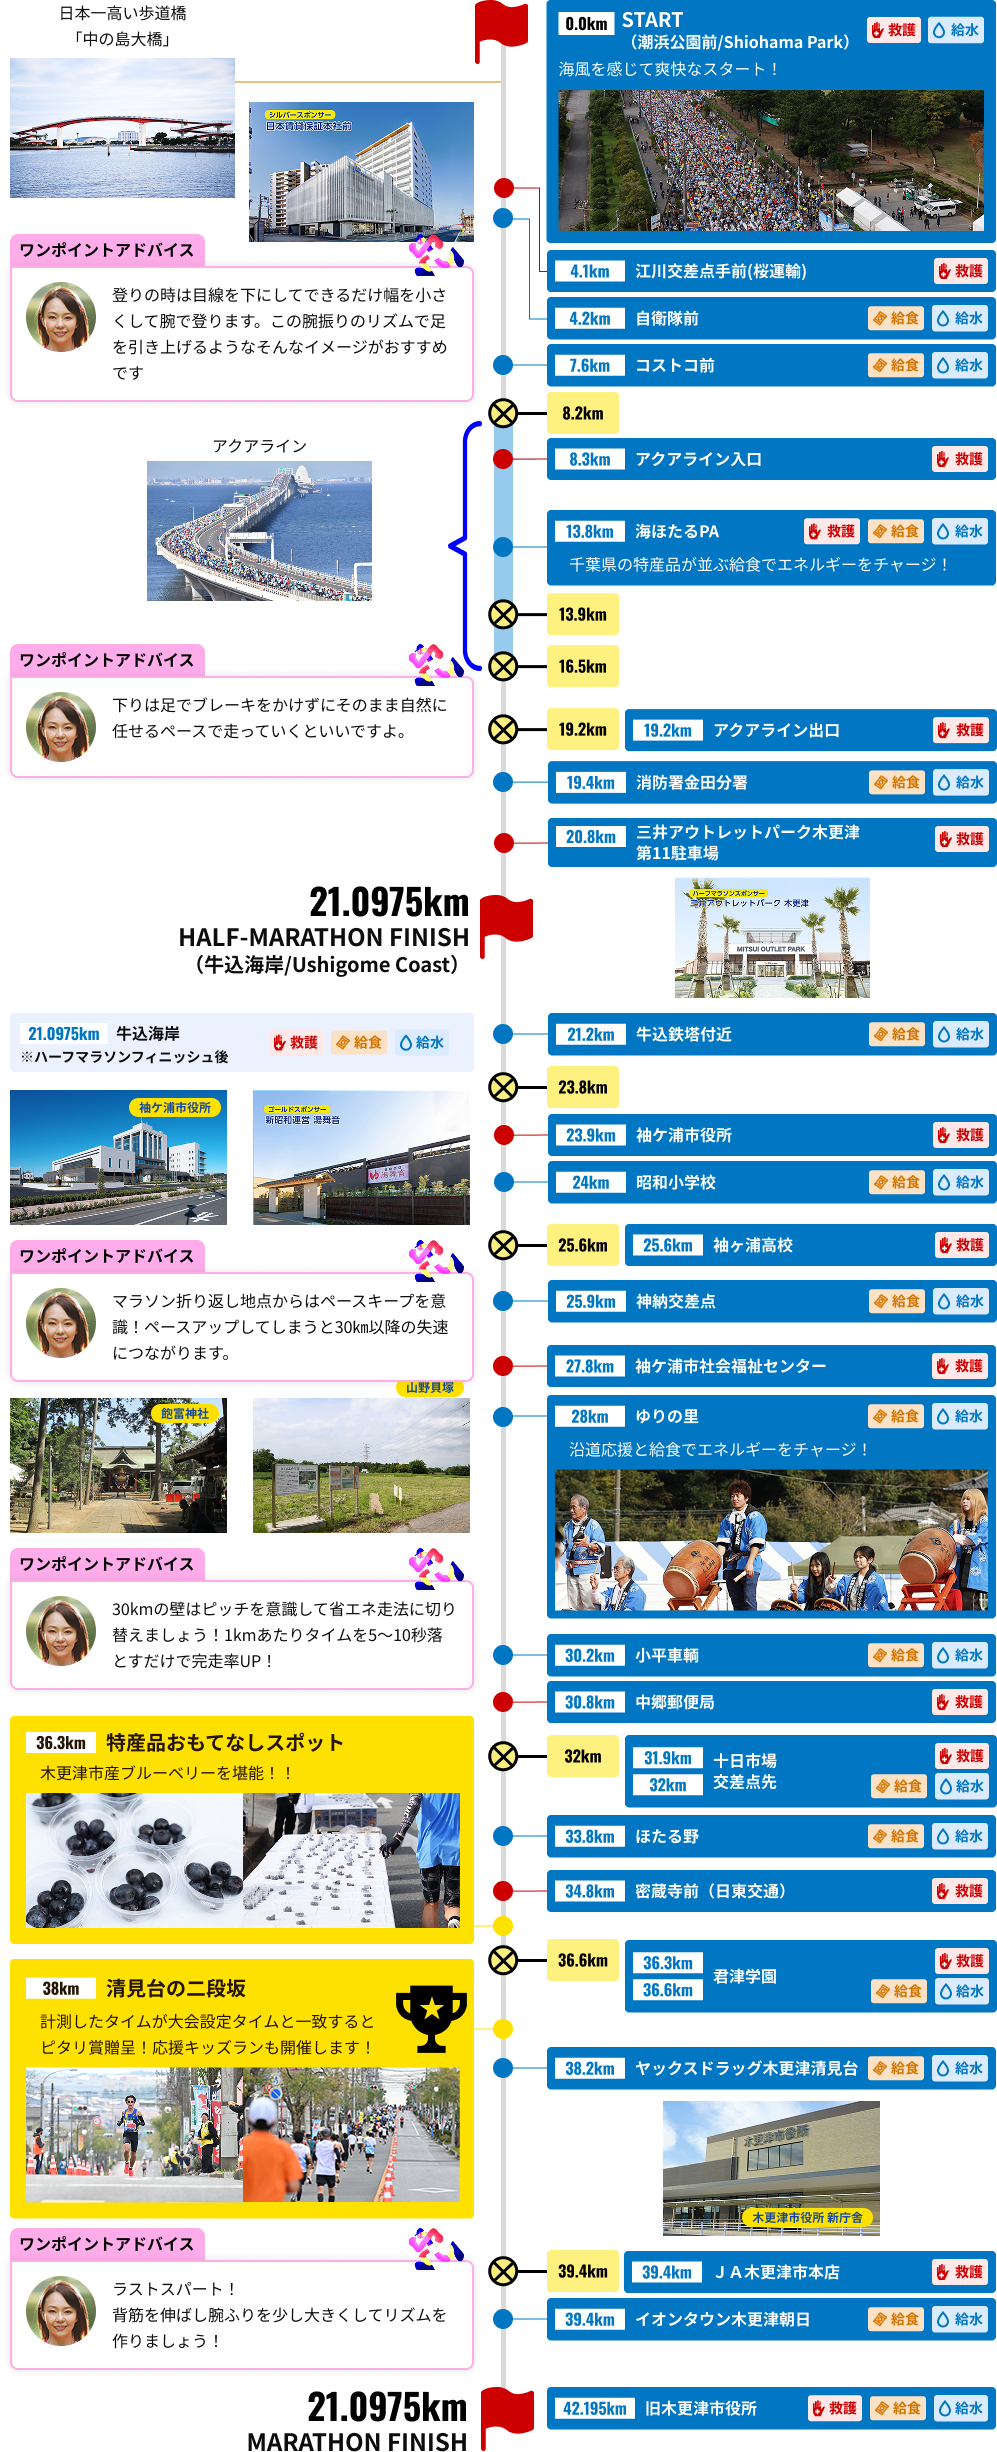
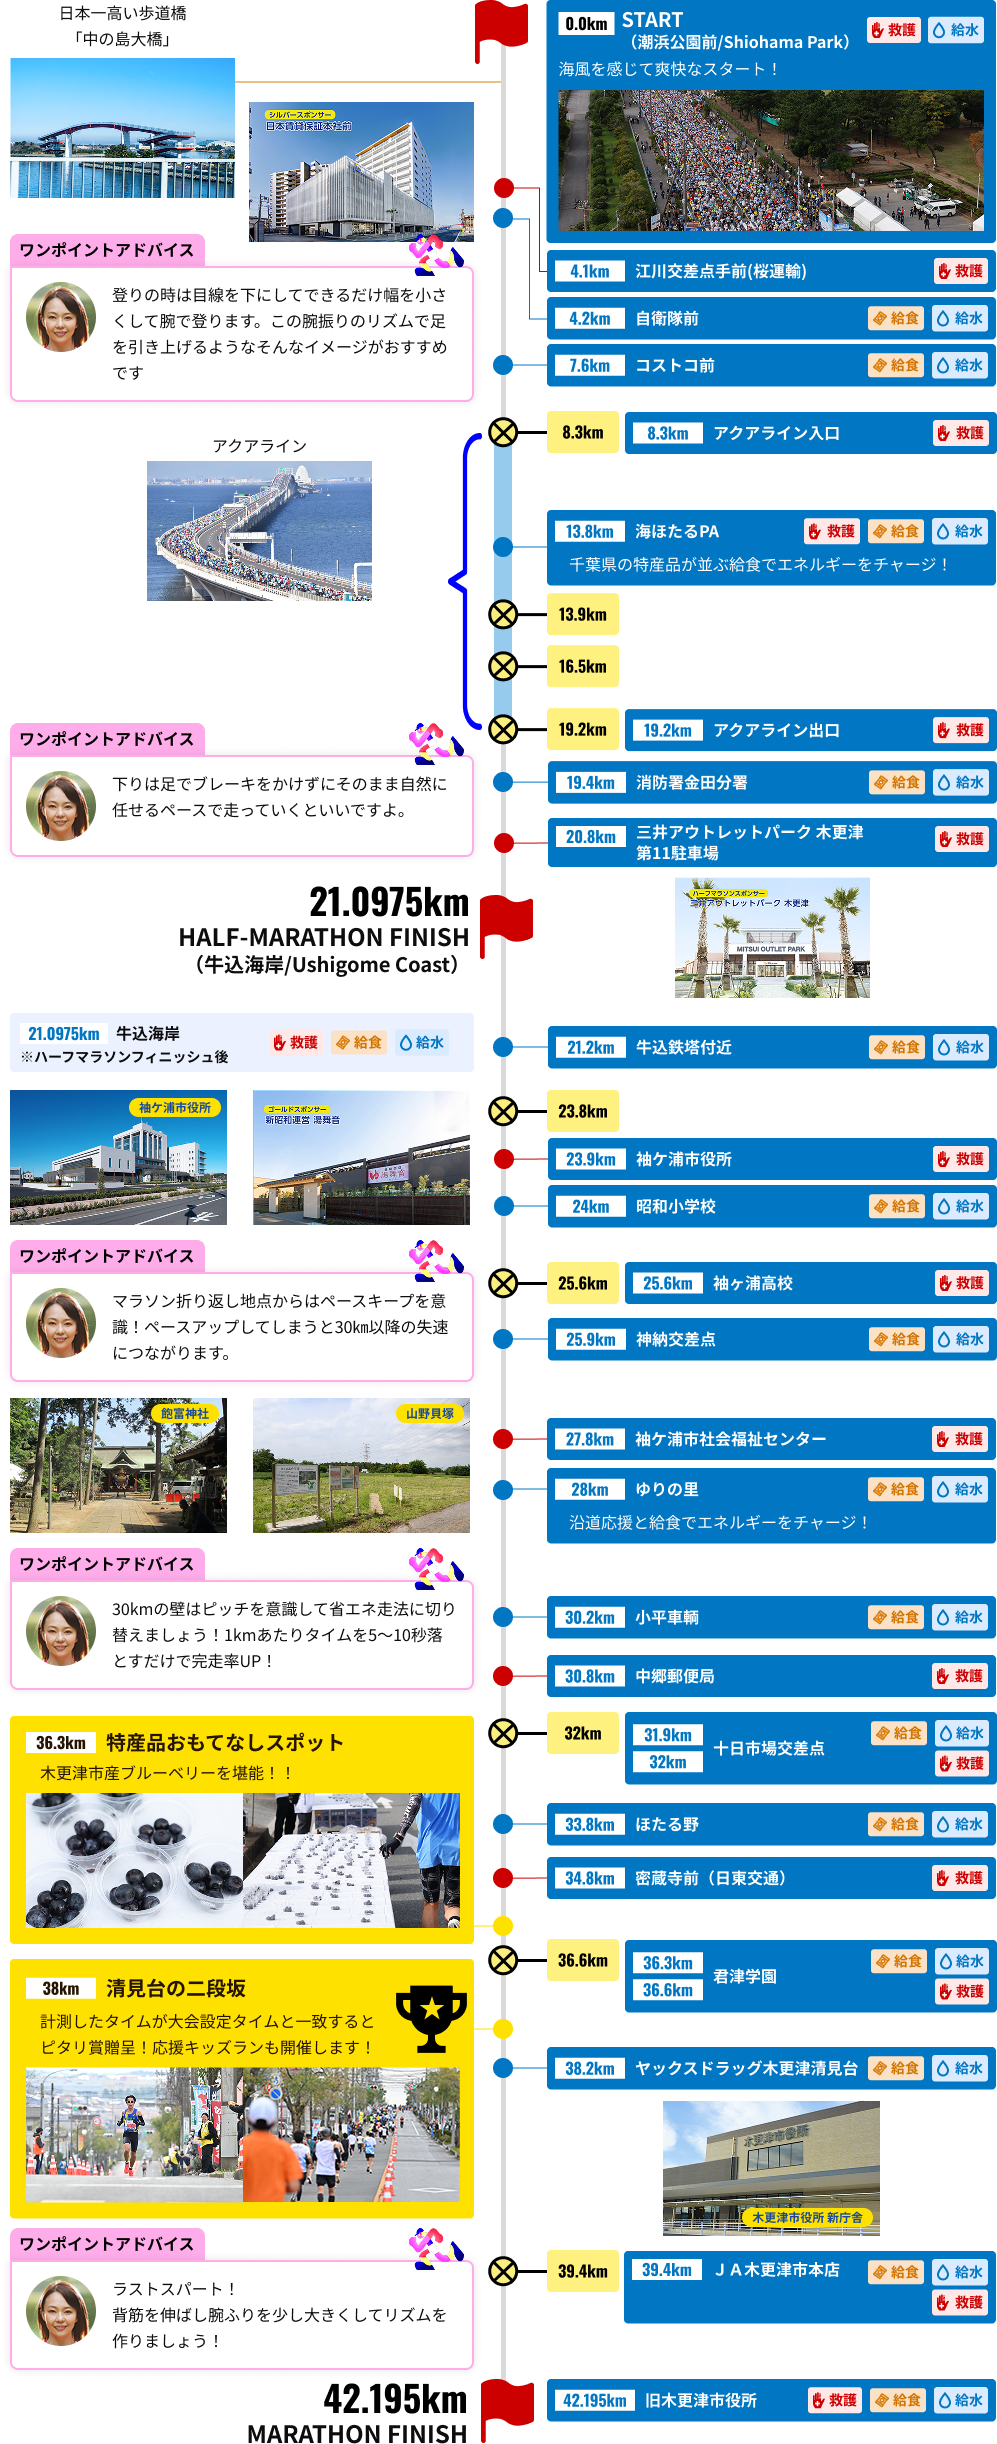
コース情報を最新化

diff --git a/tournament/course.html b/tournament/course.html
@@ -53,7 +53,7 @@
 			</section>
 			<section class="c-container">
 				<h3 class="c-heading__info">コース情報／ワンポイントアドバイス</h3>
-				<!-- <div class="p-course__block--advisor">
+				<div class="p-course__block--advisor">
 					<p class="p-course__image--advisor"><img src="/images/tournament/course/img_masako.webp" alt=""></p>
 					<div class="p-course__inner-advisor">
 						<h4 class="p-course__heading--advisor">オフィシャルアドバイザー　千葉 真子さん</h4>
@@ -69,7 +69,7 @@
 						<div class="p-course__wrap--icon-guide">
 							<div class="p-course__inner--icon-guide">
 								<p class="p-course__icon--guide"><img src="/images/tournament/course/icon_firstaid.svg" alt="救護所"></p>
-								<p class="p-course__text--icon-guide">救護所　計16箇所</p>
+								<p class="p-course__text--icon-guide">救護所　計15箇所</p>
 							</div>
 							<div class="p-course__inner--icon-guide">
 								<p class="p-course__icon--guide"><img src="/images/tournament/course/icon_food.svg" alt="給食所"></p>
@@ -79,23 +79,29 @@
 								<p class="p-course__icon--guide"><img src="/images/tournament/course/icon_water.svg" alt="給水所"></p>
 								<p class="p-course__text--icon-guide">給水所　計16箇所</p>
 							</div>
+							<ul class="c-list__guideline--kome">
+								<li>救護所、給食所、給水所は各種目毎の数</li>
+							</ul>
 						</div>
 						<div class="p-course__wrap--icon-guide2">
 							<div class="p-course__inner--icon-guide">
 								<p class="p-course__icon--guide2"><img src="/images/tournament/course/icon_checkpoint.svg" alt="関門"></p>
-								<p class="p-course__text--icon-guide">関門　　計15箇所</p>
+								<p class="p-course__text--icon-guide">関門　　計9箇所</p>
 							</div>
+							<ul class="c-list__guideline--kome">
+								<li>コース上</li>
+							</ul>
 						</div>
 					</div>
 				</div>
-				<div class="p-course__image--course-guide bottom"><img src="/images/tournament/course/img_course_guide.webp" alt=""></div>
+				<div class="p-course__image--course-guide bottom"><img src="/images/tournament/course/img_course_guide.webp" class="u-pc" alt=""><img src="/images/tournament/course/img_course_guide_sp.webp" class="u-sp" alt=""></div>
 				<div class="p-course__block--guide">
 					<h4 class="p-course__heading--guide">アイコン<br class="u-pc">説明</h4>
 					<div class="p-course__inner--guide">
 						<div class="p-course__wrap--icon-guide">
 							<div class="p-course__inner--icon-guide">
 								<p class="p-course__icon--guide"><img src="/images/tournament/course/icon_firstaid.svg" alt="救護所"></p>
-								<p class="p-course__text--icon-guide">救護所　計16箇所</p>
+								<p class="p-course__text--icon-guide">救護所　計15箇所</p>
 							</div>
 							<div class="p-course__inner--icon-guide">
 								<p class="p-course__icon--guide"><img src="/images/tournament/course/icon_food.svg" alt="給食所"></p>
@@ -105,12 +111,18 @@
 								<p class="p-course__icon--guide"><img src="/images/tournament/course/icon_water.svg" alt="給水所"></p>
 								<p class="p-course__text--icon-guide">給水所　計16箇所</p>
 							</div>
+							<ul class="c-list__guideline--kome">
+								<li>救護所、給食所、給水所は各種目毎の数</li>
+							</ul>
 						</div>
 						<div class="p-course__wrap--icon-guide2">
 							<div class="p-course__inner--icon-guide">
 								<p class="p-course__icon--guide2"><img src="/images/tournament/course/icon_checkpoint.svg" alt="関門"></p>
-								<p class="p-course__text--icon-guide">計15箇所</p>
+								<p class="p-course__text--icon-guide">計9箇所</p>
 							</div>
+							<ul class="c-list__guideline--kome">
+								<li>コース上</li>
+							</ul>
 						</div>
 					</div>
 				</div>
@@ -123,9 +135,9 @@
 					</div>
 				</div>
 				<ul class="c-list__guideline--kome">
-					<li>仮設トイレは1ｋｍごとに設置いたします。<br>
+					<li>仮設トイレは1kmごとに設置いたします。<br>
 					詳細な位置は10月下旬～11月に公開する仮設トイレMAPをご確認ください。</li>
-				</ul> -->
+				</ul>
 				<div class="c-movie__container"><iframe
 					src="https://www.youtube.com/embed/MOIc_-TnnnM"
 					title="ランナー募集告知動画"

diff --git a/src/assets/styles/page/tournament/_course.scss b/src/assets/styles/page/tournament/_course.scss
@@ -131,6 +131,13 @@
 
 		&--course-guide {
 			margin-bottom: 24px;
+
+			img {
+				width: auto;
+				max-width: 100%;
+				margin: 0 auto;
+			}
+	
 		}
 	}
 
